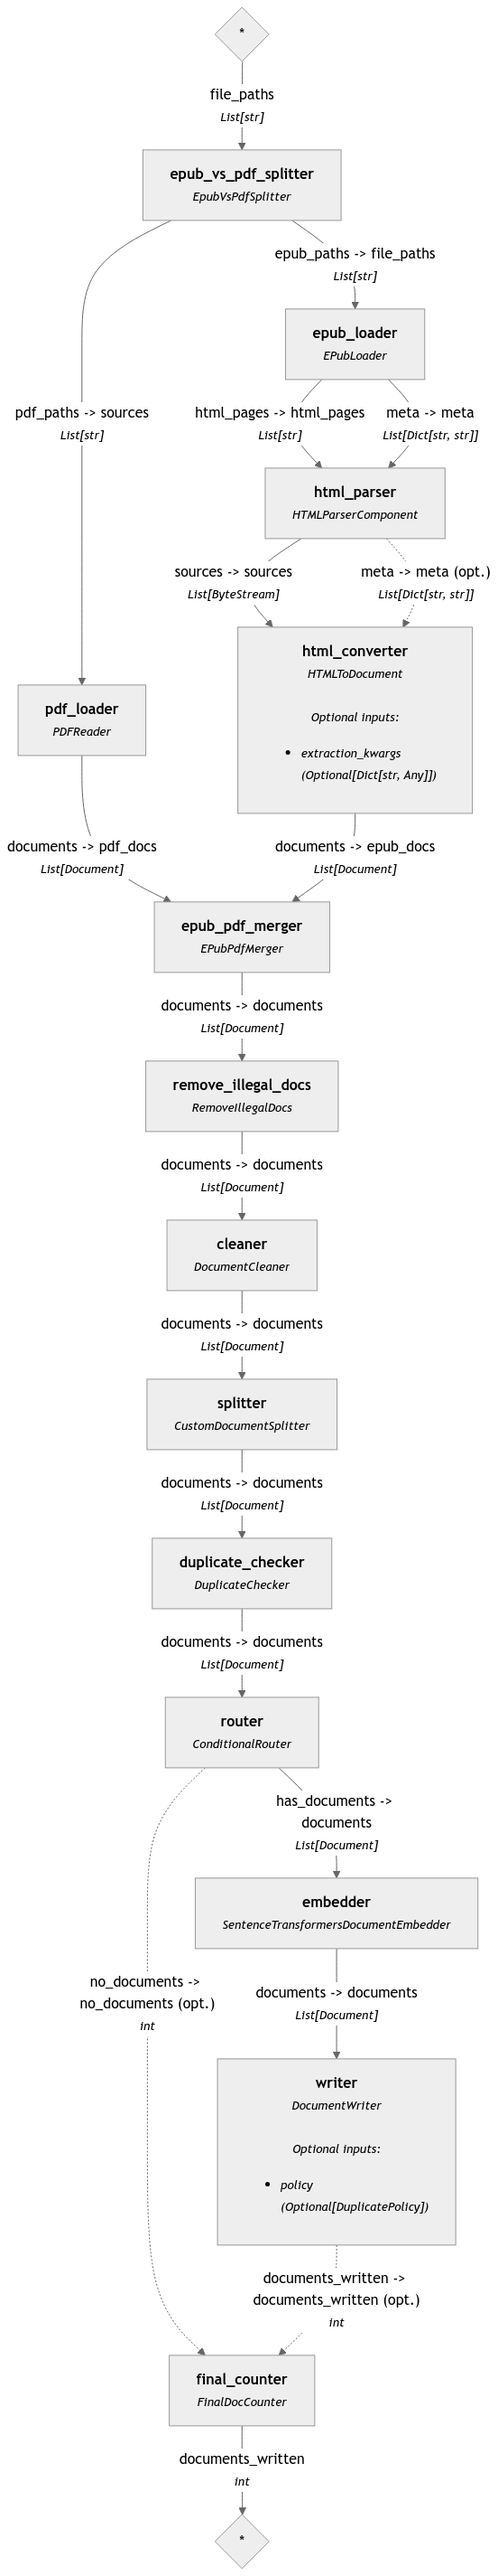
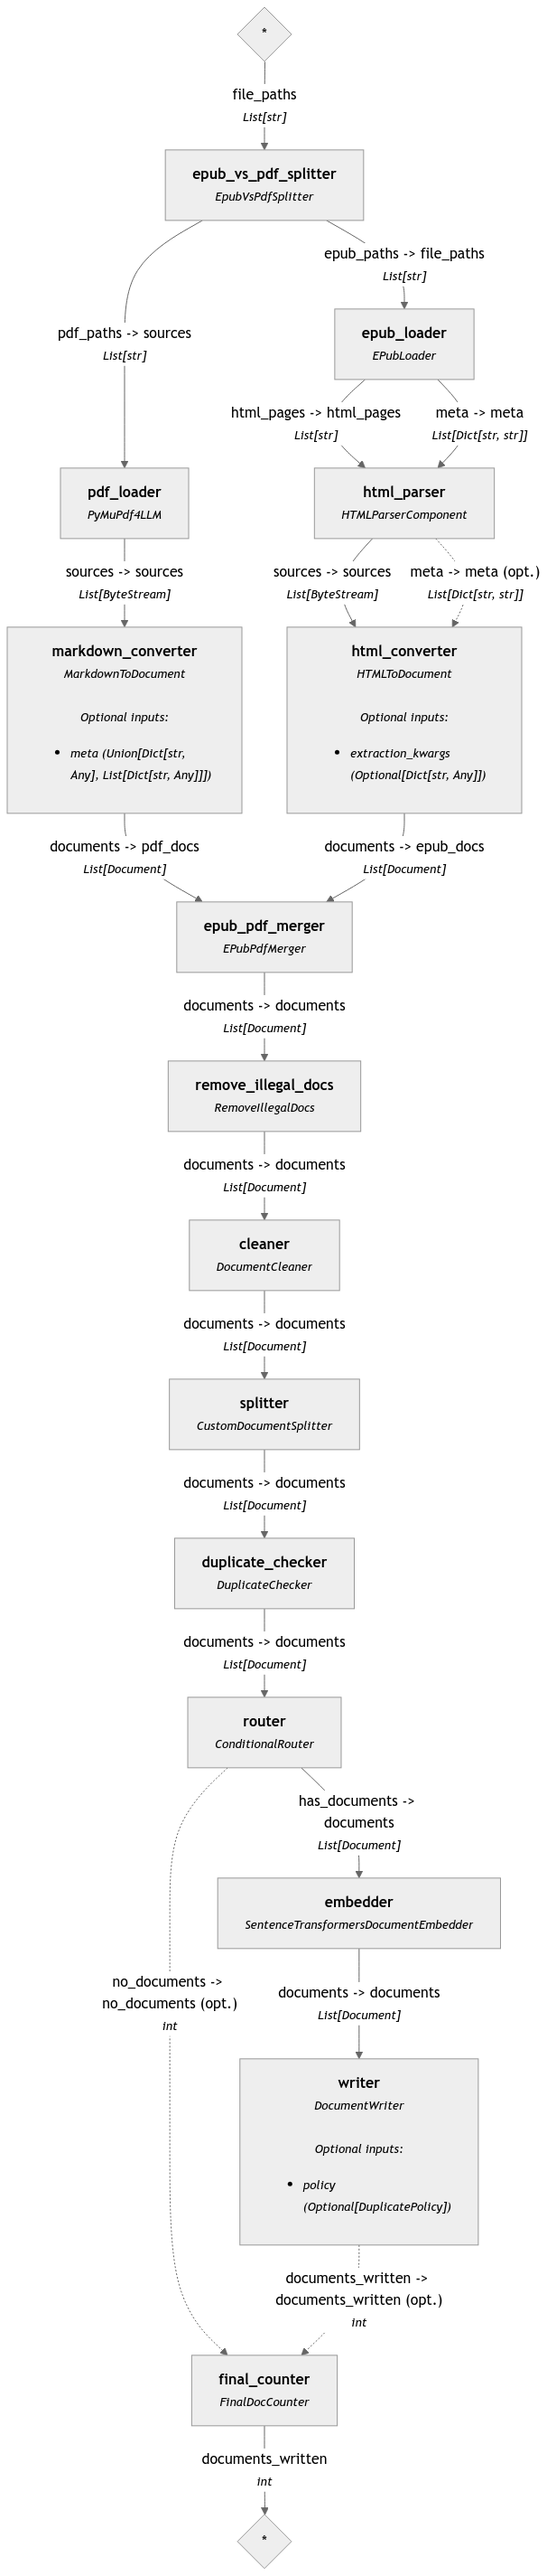
Docling integrated into code base. Bad results though.

diff --git a/document_processor.py b/document_processor.py
@@ -29,15 +29,17 @@ from generator_model import get_secret
 from doc_content_checker import skip_content
 from custom_haystack_components import (CustomDocumentSplitter, RemoveIllegalDocs, FinalDocCounter, DuplicateChecker,
                                         EPubLoader, HTMLParserComponent, print_debug_results, EpubVsPdfSplitter,
-                                        EPubPdfMerger, PDFToMarkdown, PDFReader, PyMuPDFReader)
+                                        EPubPdfMerger, PyMuPdf4LLM, PDFReader, PyMuPDFReader,
+                                        DoclingToMarkdown)
 
 
-# Create an enum for PDF reading strategy: PyPDFToDocument, PDFReader, PDFToMarkdown, PyMuPDFReader
+# Create an enum for PDF reading strategy: PyPDFToDocument, PDFReader, PyMuPdf4LLM, PyMuPDFReader
 class PDFReadingStrategy(Enum):
     PyPDFToDocument = 1
     PDFReader = 2
-    PDFToMarkdown = 3
+    PyMuPdf4LLM = 3
     PyMuPDFReader = 4
+    Docling = 5
 
 
 class DocumentStoreType(Enum):
@@ -218,8 +220,11 @@ class DocumentProcessor:
             doc_convert_pipe.add_component("pdf_loader", PyPDFToDocument())
         elif pdf_reading_strategy == PDFReadingStrategy.PDFReader:
             doc_convert_pipe.add_component("pdf_loader", PDFReader())
-        elif pdf_reading_strategy == PDFReadingStrategy.PDFToMarkdown:
-            doc_convert_pipe.add_component("pdf_loader", PDFToMarkdown())
+        elif pdf_reading_strategy == PDFReadingStrategy.PyMuPdf4LLM:
+            doc_convert_pipe.add_component("pdf_loader", PyMuPdf4LLM())
+            doc_convert_pipe.add_component("markdown_converter", MarkdownToDocument())
+        elif pdf_reading_strategy == PDFReadingStrategy.Docling:
+            doc_convert_pipe.add_component("pdf_loader", DoclingToMarkdown())
             doc_convert_pipe.add_component("markdown_converter", MarkdownToDocument())
         elif pdf_reading_strategy == PDFReadingStrategy.PyMuPDFReader:
             doc_convert_pipe.add_component("pdf_loader", PyMuPDFReader())
@@ -257,7 +262,10 @@ class DocumentProcessor:
             doc_convert_pipe.connect("pdf_loader.documents", "epub_pdf_merger.pdf_docs")
         elif pdf_reading_strategy == PDFReadingStrategy.PDFReader:
             doc_convert_pipe.connect("pdf_loader.documents", "epub_pdf_merger.pdf_docs")
-        elif pdf_reading_strategy == PDFReadingStrategy.PDFToMarkdown:
+        elif pdf_reading_strategy == PDFReadingStrategy.PyMuPdf4LLM:
+            doc_convert_pipe.connect("pdf_loader.sources", "markdown_converter.sources")
+            doc_convert_pipe.connect("markdown_converter.documents", "epub_pdf_merger.pdf_docs")
+        elif pdf_reading_strategy == PDFReadingStrategy.Docling:
             doc_convert_pipe.connect("pdf_loader.sources", "markdown_converter.sources")
             doc_convert_pipe.connect("markdown_converter.documents", "epub_pdf_merger.pdf_docs")
         elif pdf_reading_strategy == PDFReadingStrategy.PyMuPDFReader:
@@ -336,7 +344,7 @@ class DocumentProcessor:
 
 def main() -> None:
     file_path: str = "documents"
-    doc_store_type: DocumentStoreType = DocumentStoreType.Neo4j
+    doc_store_type: DocumentStoreType = DocumentStoreType.Pgvector
     password: str = ""
     user_name: str = ""
     db_name: str = ""
@@ -365,7 +373,7 @@ def main() -> None:
         min_paragraph_size=300,
         include_outputs_from=include_outputs_from,
         verbose=True,
-        pdf_reading_strategy=PDFReadingStrategy.PDFReader,
+        pdf_reading_strategy=PDFReadingStrategy.PyMuPdf4LLM,
         write_to_file=True,
         document_store_type=doc_store_type,
     )

diff --git a/custom_haystack_components.py b/custom_haystack_components.py
@@ -29,6 +29,7 @@ import numpy as np
 import torch
 import requests
 import generator_model as gen
+from docling.document_converter import DocumentConverter
 # import markdown
 
 
@@ -187,7 +188,7 @@ class PyMuPDFReader:
 
 
 @component
-class PDFToMarkdown:
+class PyMuPdf4LLM:
     def __init__(self, min_page_size: int = 1000):
         self._min_page_size = min_page_size
 
@@ -197,6 +198,23 @@ class PDFToMarkdown:
         # https://github.com/pymupdf/RAG/issues/187/
         for source in sources:
             markdown_doc: str = pymupdf4llm.to_markdown(source)
+            byte_stream: ByteStream = ByteStream(markdown_doc.encode('utf-8'))
+            markdown_docs.append(byte_stream)
+        return {"sources": markdown_docs}
+
+
+@component
+class DoclingToMarkdown:
+    def __init__(self, min_page_size: int = 1000):
+        self._min_page_size = min_page_size
+        self._converter = DocumentConverter()
+
+    @component.output_types(sources=List[ByteStream])
+    def run(self, sources: List[str]) -> Dict[str, List[ByteStream]]:
+        markdown_docs: List[ByteStream] = []
+        # https://github.com/pymupdf/RAG/issues/187/
+        for source in sources:
+            markdown_doc: str = self._converter.convert(source).document.export_to_markdown()
             byte_stream: ByteStream = ByteStream(markdown_doc.encode('utf-8'))
             markdown_docs.append(byte_stream)
         return {"sources": markdown_docs}
